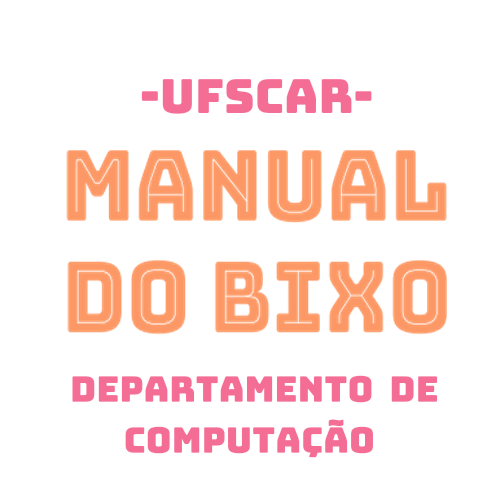
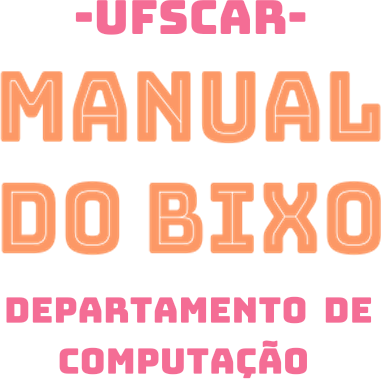
Ajuste da imagem e título do nav
Troca da imagem do título do nav, e ajuste do seu style.

diff --git a/style/main.css b/style/main.css
@@ -60,10 +60,16 @@ nav div{
     text-align: center;
 }
 
+nav a{
+    padding-top: .5em;
+    display: block;
+    width: 100%;
+}
+
 nav img{
+    display: block;
     position: relative;
-    max-width: 110%;
-    margin: -10% 0 -10% -5%;
+    
 }
 
 .nav_anchors{
@@ -121,6 +127,10 @@ nav img{
         border-radius: 10px;
         border: 3px solid #4B1C55;
     }
+
+    nav a img{
+        max-width: 70%;
+    }
 }
 
 /*mobile*/
@@ -135,17 +145,23 @@ nav img{
         padding-bottom: 1em;
         font-size: 1.5em;
     }
+
+    nav a img{
+        max-width: 80%;
+        margin-bottom: -10%;
+        margin-top: -10%;
+    }
 }
 
 a span#go_top{
     display: block;
     background-color: #4B1C55;
-    border-radius: 28px;
+    border-radius: 30px;
     right: 16px;
     bottom: 16px;
-    size: 56px;
+    size: 60px;
     z-index: 5;
-    box-shadow: rgba(0,0,0,.3) 2px 2px 2px;
+    box-shadow: rgba(0,0,0,.3) 3px 1.5px 1.5px;
 }
 
 /*desktop*/

diff --git a/index.html b/index.html
@@ -10,7 +10,7 @@
 <body>
     <!-- índice -->
     <nav class="flex_column" id="nav">
-        <a href="#bem_vinde"><img src="imagens/titulo_nav.png" alt="UFSCar/Manual do Bixo/Departamento de Computação"></a>
+        <a href="#bem_vinde" class="flex_column"><img src="imagens/titulo_nav.png" alt="UFSCar/Manual do Bixo/Departamento de Computação"></a>
         <div class="flex_column">
             <div class="nav_anchors">
                 <p class="section">Introdução</p>
